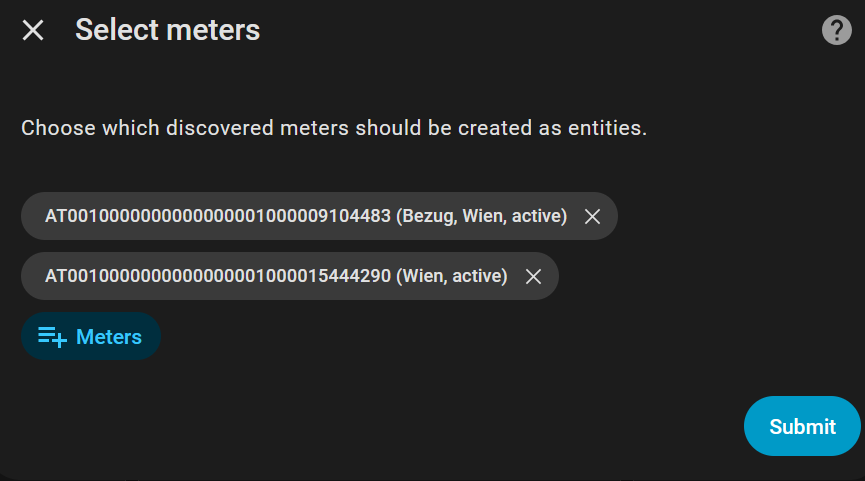
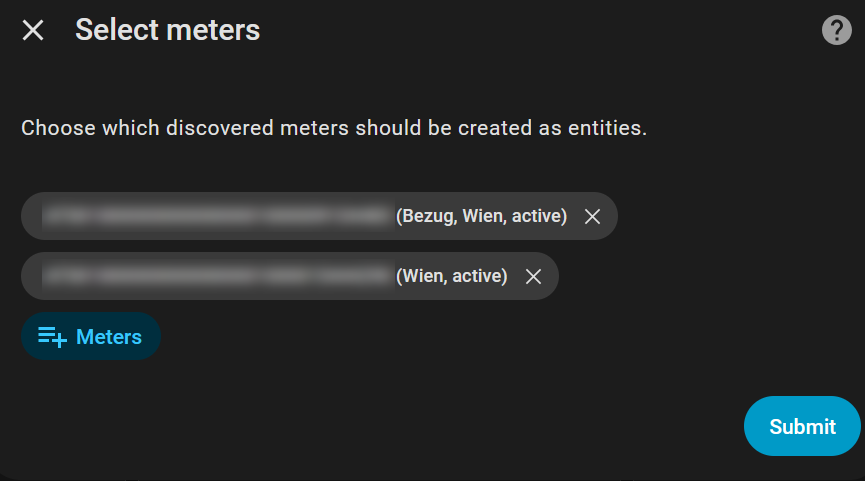
Refactor code structure for improved readability and maintainability

Changed region(s): [[0.0312, 0.5301, 0.4682, 0.5925], [0.0312, 0.4054, 0.4682, 0.4678]]

diff --git a/README.md b/README.md
@@ -24,9 +24,17 @@ Inactive meters can appear in the list, but are usually not preselected.
 
 For each selected meter (`zaehlpunkt`), the integration can create up to 3 sensor entities.
 
+Entities view example (meter numbers blurred, suffixes kept readable):
+
+![Wiener Netze Smartmeter - Created entities overview](doc/Entities_blurred.png)
+
+Statistics view example (meter numbers blurred, suffixes kept readable):
+
+![Wiener Netze Smartmeter - Created statistics streams overview](doc/statistics_blurred.png)
+
 ## Created Sensors
 
-`<zaehlpunkt>` below means your meter ID, for example `at0010000000000000001000009104483`.
+`<zaehlpunkt>` below means your meter ID, for example `at0010000000000000001000009111111`.
 
 | Entity ID pattern | Created by default | Type | Description |
 | --- | --- | --- | --- |
